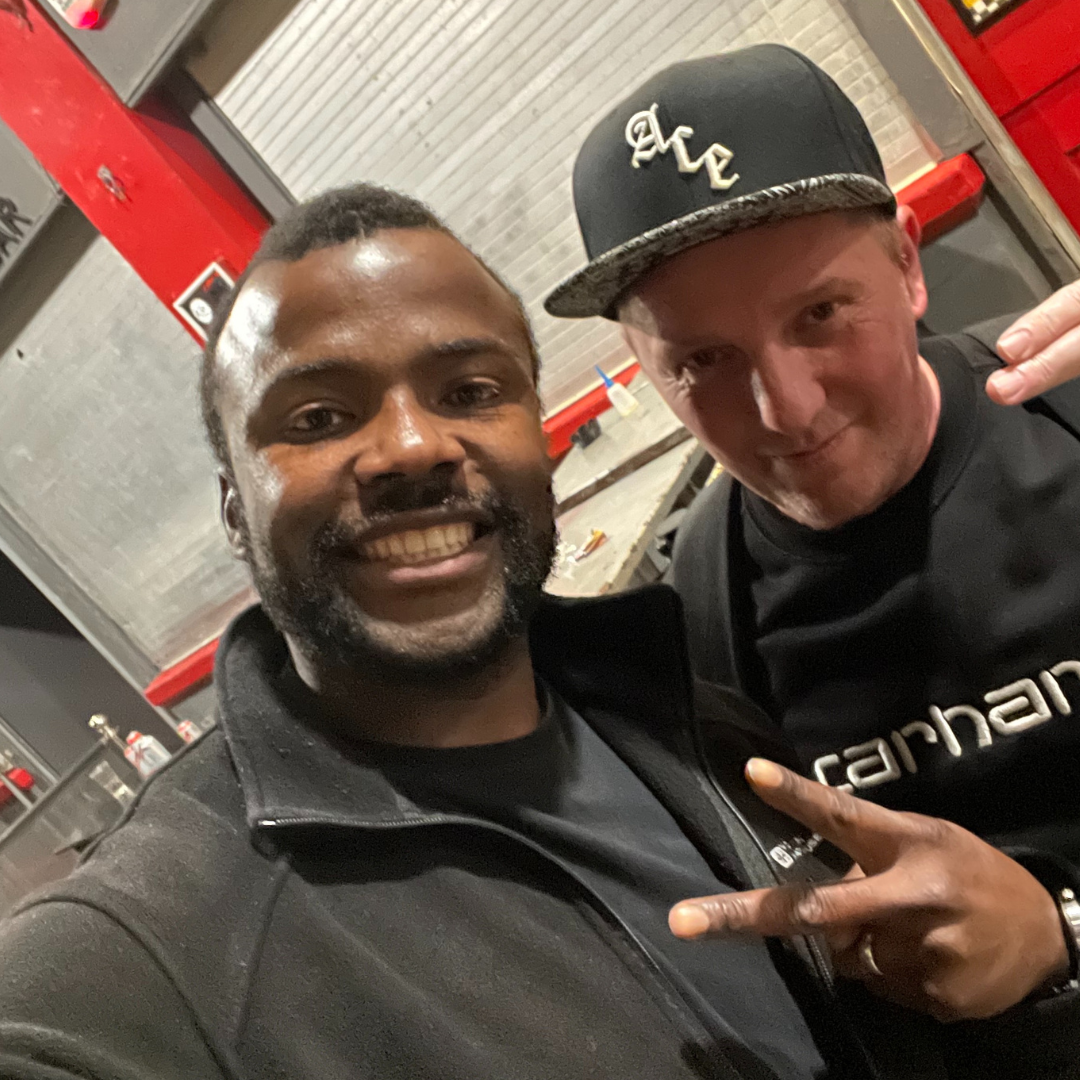
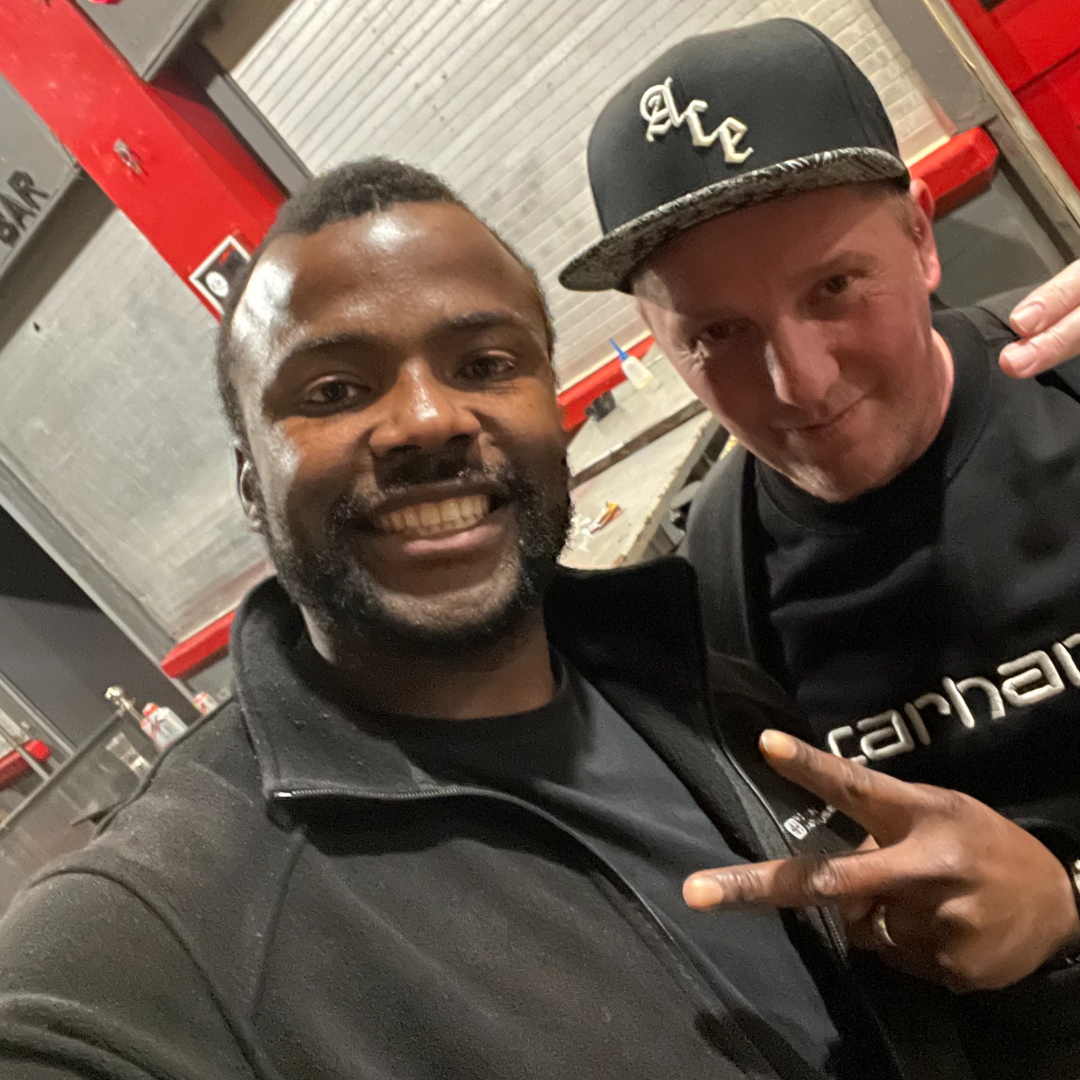
add ego image

diff --git a/src/pages/about.jsx b/src/pages/about.jsx
@@ -7,7 +7,7 @@ import { TfiEmail } from 'react-icons/tfi'
 // import { HeroSection } from '../components/HeroSection'
 import { Layout } from '../components/Layout'
 import Sec from '../images/artists/beano.png'
-import Maddy from '../images/artists/maddy.png'
+import Ego from '../images/artists/ego.png'
 import Pic from '../images/artists/nicky.png'
 import Ray from '../images/artists/ray.png'
 
@@ -94,7 +94,7 @@ function AboutPage({ data }) {
 
                 <Col md={4}>
                   <div className="card " style={{ width: '100%' }}>
-                    <img src={Maddy} className="card-img-top" alt="..." />
+                    <img src={Ego} className="card-img-top" alt="..." />
                     {/* <div className="card-body">
                       <h5 className="card-title ">Darren</h5>
                       <div>
